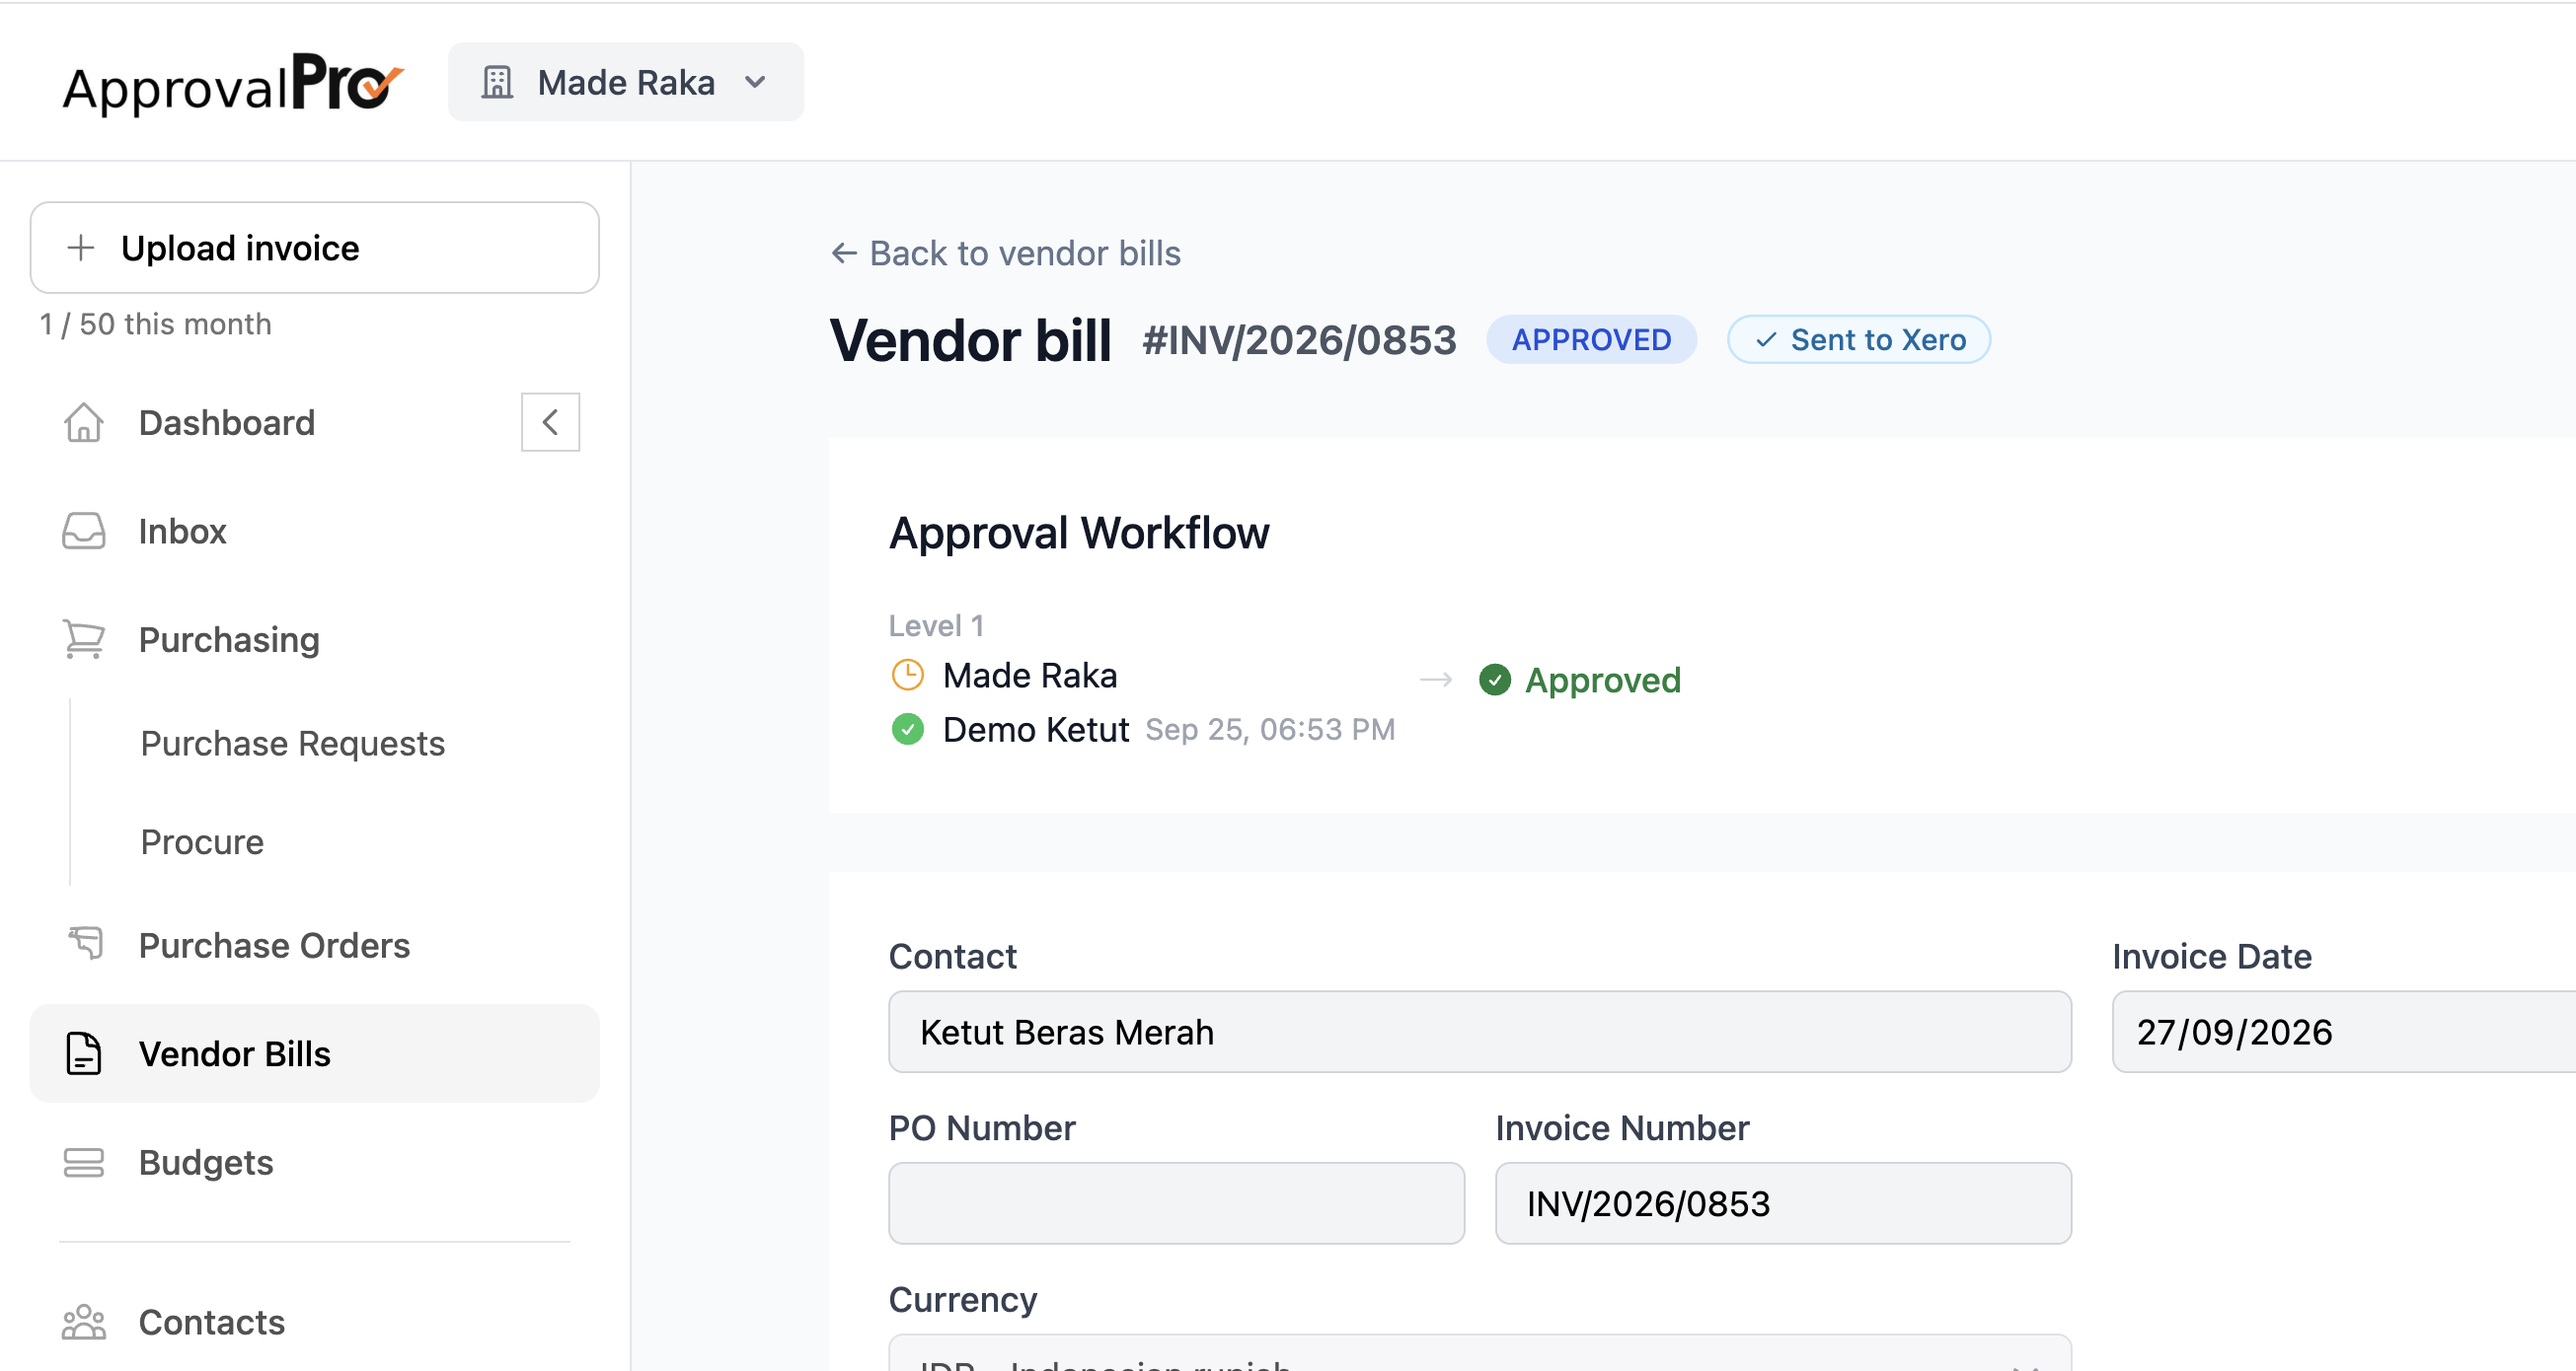
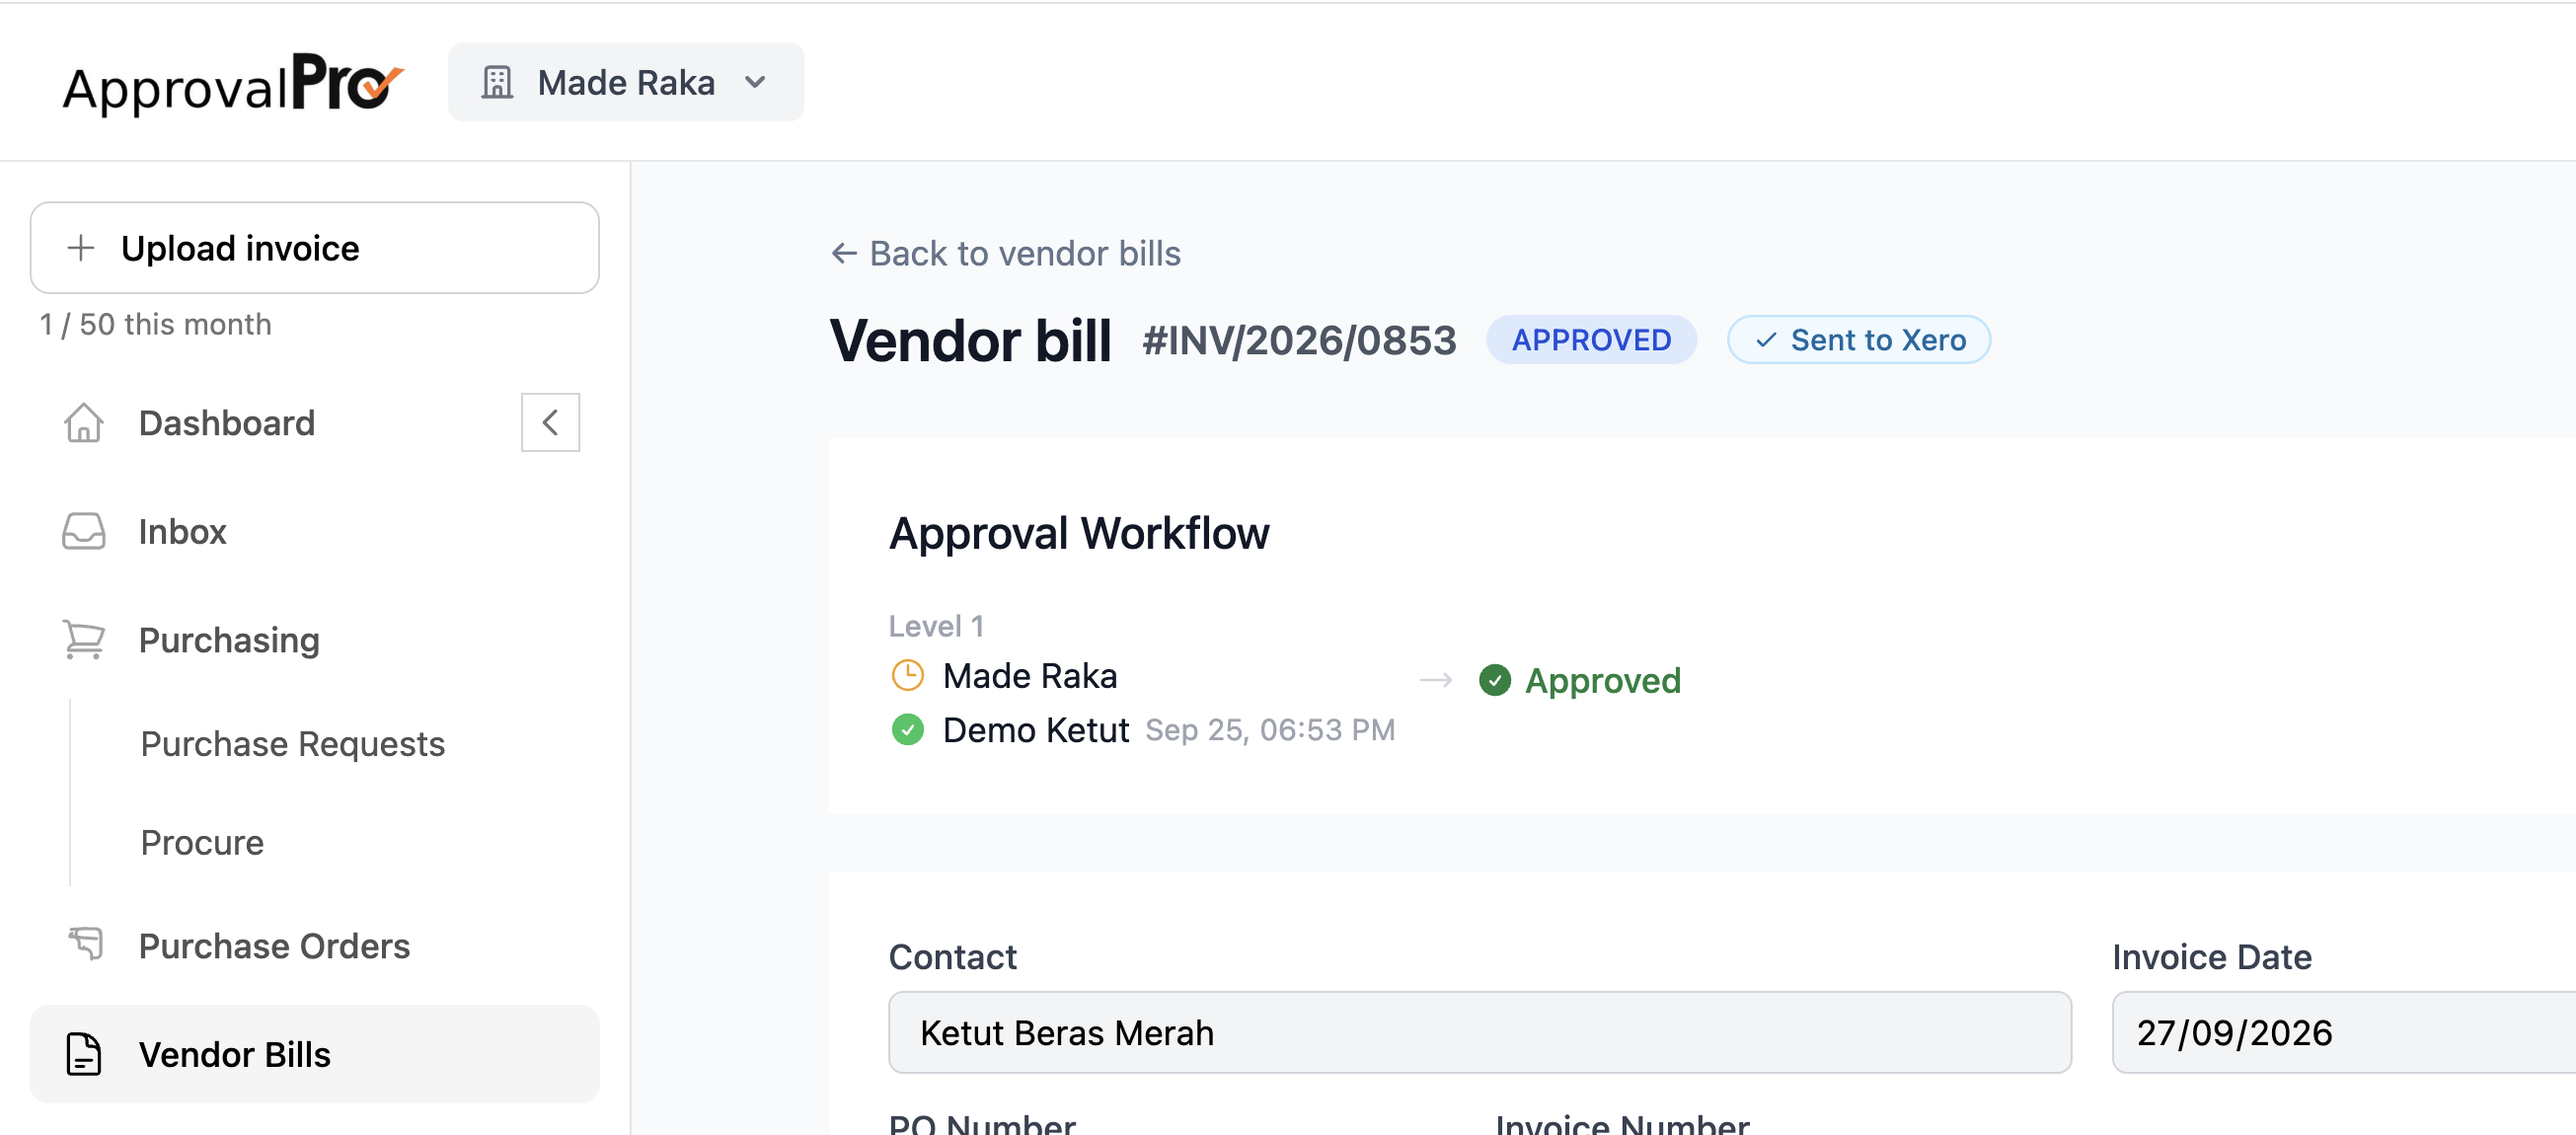
Re-crop hero screenshot; add auto-capture screenshot to showcase
- Hero image: re-crop images/head1.png to a shorter, tighter frame
  (logo, top bar, and the Approval Workflow panel) instead of
  extending down into the form fields.
- Add images/auto-capture-vendor-invoice.png (cropped/downscaled
  from the supplied source) beneath the auto-capture video in that
  showcase section, showing the OCR-extracted vendor bill review
  screen.

diff --git a/index.html b/index.html
@@ -713,6 +713,16 @@ a {
     border: 0;
 }
 
+.showcase-screenshot {
+    display: block;
+    width: 100%;
+    height: auto;
+    margin-top: 1rem;
+    border-radius: 8px;
+    border: 1px solid #e5e7eb;
+    box-shadow: 0 8px 24px rgba(0,0,0,0.12);
+}
+
 /* Pricing Section */
 .pricing {
     padding: 3rem 1rem;
@@ -1197,7 +1207,7 @@ a {
                     <a href="#how-it-works" class="cta-button-outline" style="margin-left: 0.75rem;">See How It Works</a>
                 </div>
                 <div class="hero-visual">
-                    <img src="images/hero-screenshot.png" alt="ApprovalPro vendor bill approval workflow showing multi-level approval status" width="2610" height="1390" class="hero-screenshot" loading="eager" fetchpriority="high">
+                    <img src="images/hero-screenshot.png" alt="ApprovalPro vendor bill approval workflow showing multi-level approval status" width="2610" height="1150" class="hero-screenshot" loading="eager" fetchpriority="high">
                 </div>
             </div>
         </section>
@@ -1350,6 +1360,7 @@ a {
                     <div class="video-embed">
                         <iframe src="https://www.youtube.com/embed/qvTSgpoSZT0" title="Auto-Capture Vendor Invoice in Xero Approval Workflow &mdash; ApprovalPro Walkthrough" loading="lazy" allow="accelerometer; autoplay; clipboard-write; encrypted-media; gyroscope; picture-in-picture; web-share" allowfullscreen referrerpolicy="strict-origin-when-cross-origin"></iframe>
                     </div>
+                    <img src="images/auto-capture-vendor-invoice.png" alt="ApprovalPro extracting vendor, invoice number, dates, and amount from an uploaded bill" width="1800" height="681" class="showcase-screenshot" loading="lazy">
                 </div>
                 <div class="showcase-content">
                     <h2 id="auto-capture-heading">Auto-Capture Vendor Invoice in Xero Approval Workflow</h2>
